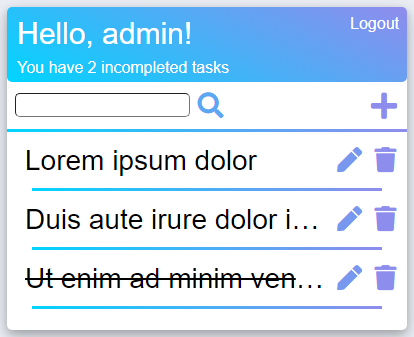
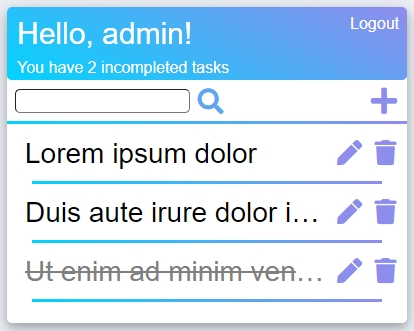
More neutral login/registration UI + customize in future

diff --git a/base/static/style.css b/base/static/style.css
@@ -8,20 +8,17 @@ body, html {
 	width: 350px;
 	margin-top: auto;
 	margin-bottom: auto;
-	background: linear-gradient(206deg, rgba(141,141,237,1) 2%, rgba(0,212,255,1) 100%);
+	background: whitesmoke;
 	position: relative;
 	display: flex;
 	justify-content: center;
 	flex-direction: column;
 	padding: 20px;
-	box-shadow: 0 4px 8px 0 rgba(0, 0, 0, 0.2), 0 6px 20px 0 rgba(0, 0, 0, 0.19);
+    box-shadow: 0 4px 8px 0 rgba(0, 0, 0, 0.2), 0 6px 20px 0 rgba(0, 0, 0, 0.19);
 	border-radius: 5px;
 }
-.form_container {
-	margin-top: 10px;
-}
 #form-title {
-	color: white;
+	color: black;
 }
 .login_container {
 	padding: 10px;
@@ -31,39 +28,43 @@ body, html {
 	color: white;
 	width: 40px;
 	height: 38px;
-	border: 1px solid white
+	border: 1px solid #303b42;
 }
 #messages {
-	color: white;
+	color: black;
 	padding: 5px;
-	margin: 0;
-	text-align: center;
+	margin-top: 5px;
+	margin-bottom: 5px;
+	margin-left: 15px;
 }
 .errorlist {
-	color: white;
+	color: black;
 	padding: 5px;
-	margin: 0 0 0 20px;
+	margin: 0;
 }
+
 @media (max-width: 1000px) {
     .fa-key {
-        width: 100px;
-        font-size: 45px;
+        width: 80px;
+        font-size: 40px;
     }
-	.fa-user{
-		width: 100px;
-		font-size: 45px;
+	.fa-user {
+		width: 80px;
+		font-size: 40px;
 	}
 	.user_card {
 		width: 100%;
-		font-size: 40px;
-		border-radius: 20px;
+		font-size: 35px;
+		border-radius: 10px;
 		padding: 40px;
   	}
 	.input-group-text {
+		margin-left: auto;
+		margin-right: auto;
 		background: #303b42;
 		color: white;
-		width: 90px;
-		height: 90px;
+		width: 80px;
+		height: 80px;
 		border-color: white;
 		border-width: 2px;
 		margin-bottom: 5px;
@@ -71,9 +72,13 @@ body, html {
 	.form_container {
 		margin-top: 30px;
 	}
-	.form-control{
-		height: 90px;
-		font-size: 35px;
+	.form-control {
+		width: 400px;
+		height: 80px;
+		font-size: 30px;
 		margin-bottom: 5px;
+	}
+	#messages, .errorlist  {
+		font-size: 30px;
 	}
 }

diff --git a/base/templates/base/register.html b/base/templates/base/register.html
@@ -47,16 +47,24 @@
 						</div>
 
 				   		<div class="d-flex justify-content-center mt-3 login_container">
-				 			<input class="btn register_btn" type="submit" value="Register account">
+				 			<input class="btn btn-outline-info register_btn" type="submit" value="Register account">
 				   		</div>
 					</form>
 				</div>
 
-				{{form.errors}}
+
+
+				{% if form.errors %}
+                    {% for field, errors in form.errors.items %}
+                        {% for error in errors %}
+                            <p id="errorlist">- {{ error }}</p>
+                        {% endfor %}
+                    {% endfor %}
+                {% endif %}
 				
 				<div class="mt-2">
 					<div class="d-flex justify-content-center links">
-						Already have an account? <a href="{% url 'login' %}" class="ml-2" style="text-decoration: none; color: white;"> Login</a>
+						Already have an account? <a href="{% url 'login' %}" class="ml-2" style="text-decoration: none; color: #03befc;"> Login</a>
 					</div>
 				</div>
 			</div>

diff --git a/base/templates/base/login.html b/base/templates/base/login.html
@@ -1,6 +1,6 @@
 {% load static %}
 <!DOCTYPE html>
-<html>
+<html lang="eg">
     
 <head>
 	<title>Login</title>
@@ -41,7 +41,7 @@
                         </div>
 
 							<div class="d-flex justify-content-center mt-2 login_container">
-				 				<input class="btn signin_btn" type="submit" value="Login">
+				 				<input class="btn btn-outline-info signin_btn" type="submit" value="Login">
 				   			</div>
 					</form>
 				</div>
@@ -52,7 +52,7 @@
 		
 				<div class="mt-2">
 					<div class="d-flex justify-content-center links">
-						Don't have an account? <a href="{% url 'register' %}" class="ml-2"  style="text-decoration: none; color: white;">Sign Up</a>
+						Don't have an account? <a href="{% url 'register' %}" class="ml-2"  style="text-decoration: none; color: #03befc;">Sign Up</a>
 					</div>
 				</div>
 			</div>

diff --git a/base/static/login_style.css b/base/static/login_style.css
@@ -1,10 +1,16 @@
+#form-title {
+	margin-top: 5px;
+}
+h3 {
+	font-size: 45px;
+}
+.form_container {
+	margin-top: 15px;
+}
 .signin_btn {
-	width: 70%;
-	border: 1px solid white;
-	background: #303b42;
-	color: white;
+	width: 100%;
 	margin-top: 0;
-	margin-bottom: 0;
+	margin-bottom: 5px;
 }
 .form-control {
 	border-radius: 0;
@@ -13,17 +19,14 @@
 	border-top-right-radius: 5px;
 	border-bottom-right-radius: 5px;
 }
-
-
 @media (max-width: 1000px) {
 	h3 {
-		font-size: 60px;
+		font-size: 70px;
 	}
 	.signin_btn {
 		width: 400px;
-		height: 100px;
-		font-size: 35px;
-		border: 2px solid white;
+		height: 80px;
+		font-size: 30px;
 		border-radius: 10px;
 		margin-top: 20px;
 		margin-bottom: 10px;
@@ -32,4 +35,5 @@
 		border-top-right-radius: 10px;
 		border-bottom-right-radius: 10px;
 	}
+
 }

diff --git a/base/static/register_style.css b/base/static/register_style.css
@@ -1,28 +1,27 @@
+.form_container {
+	margin-top: 10px;
+}
 .register_btn {
 	width: 100%;
-	border: 1px solid white;
-	background: #303b42;
-	color: white;
-	border-radius: 0.25rem 0.25rem 0.25rem 0.25rem;
+	border-radius: 0.25rem;
 	margin-top: 0;
-	margin-bottom: 0;
+	margin-bottom: 10px;
 }
 @media (max-width: 1000px) {
     .fa-envelope-square {
 		width: 100px;
-		font-size: 45px;
+		font-size: 40px;
 	}
 	.user_card {
 		padding: 30px;
   	}
 	h3 {
-		font-size: 60px;
+		font-size: 62px;
 	}
 	.register_btn {
-		border: 2px solid white;
 		font-size: 110px;
 		width: 400px;
-		height: 100px;
+		height: 80px;
 		margin-top: 20px;
 	}
 	.form-control {

diff --git a/base/templates/base/task_list.html b/base/templates/base/task_list.html
@@ -25,7 +25,7 @@
 </form>
     {% for task in tasks %}
         {% if task.complete %}
-            <a href="{% url 'task' task.id %}"><button class="task"><s>{{task.title}}</s></button></a>
+            <a href="{% url 'task' task.id %}"><button class="task" style="color: grey"><s>{{task.title}}</s></button></a>
             <a href="{% url 'task-update' task.id %}" class="fas fa-pen"></a>
             <a href="{% url 'task-delete' task.id %}" class="fas fa-trash"></a>
             <div class="line1"></div>
